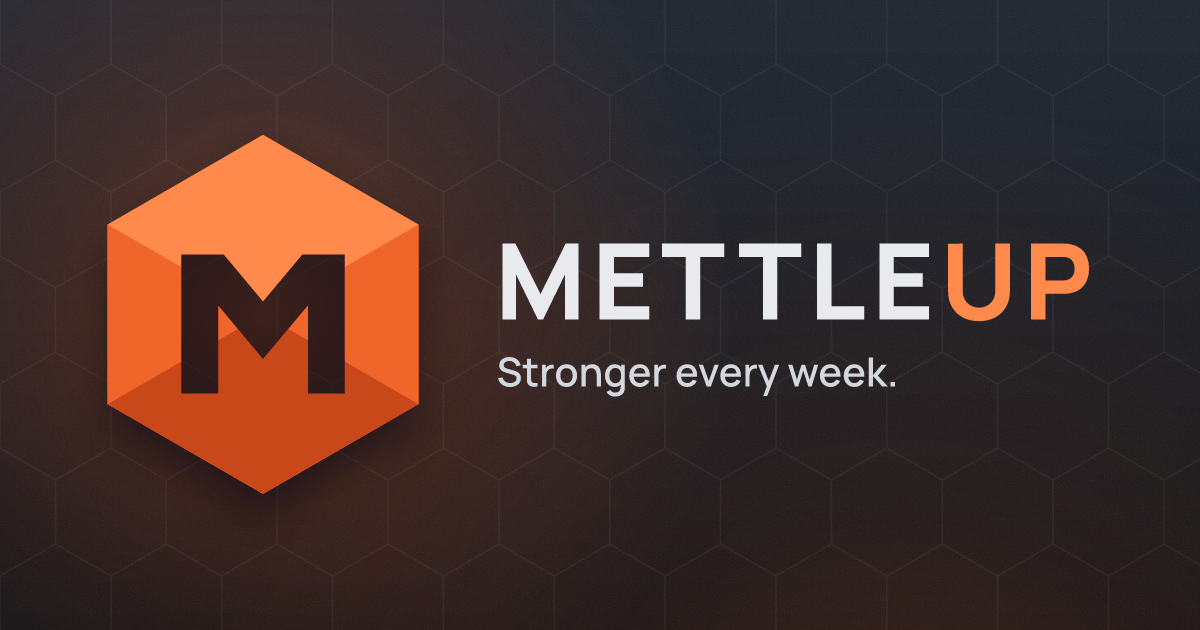
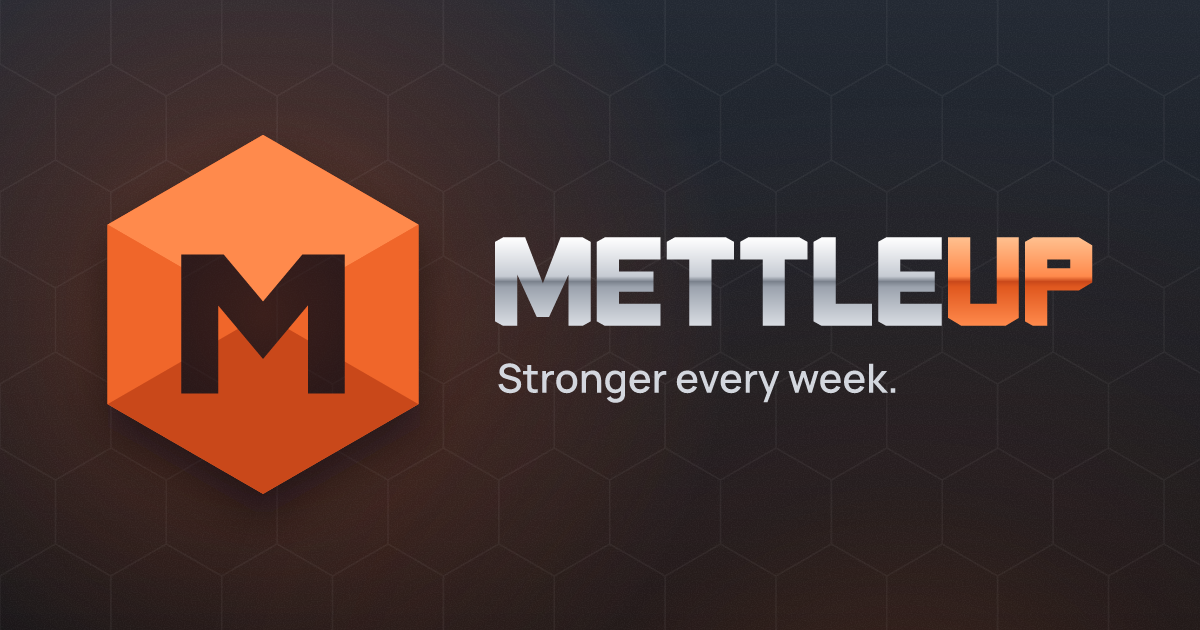
Steel-plate name in the admin app and HQ (R-425)
- Admin: sign-in and Welcome show the steel lockup (SteelLockup.tsx, shapes generated by
  web_steel_lockup.py into src/brand/steelLockup.ts); the menu says "Powered by" + the flat
  steel name. Name colours follow the light/dark theme.
- HQ: header and side menu draw the steel lockup + a small HQ tag instead of a fake M.
- Link picture and wordmark-*.svg copied from branding/mettleup/web.
- ADMIN_NEWS line for the new look.

Changed region(s): [[0.4008, 0.3619, 0.925, 0.5429], [0.4008, 0.573, 0.74, 0.6333]]

diff --git a/apps/hq/public/index.html b/apps/hq/public/index.html
@@ -38,7 +38,7 @@
 
   <!-- Phone: a slim bar on top. Computer: hidden (the side menu carries the name). -->
   <header class="top">
-    <a class="brand" href="#needs"><span class="brand-mark" aria-hidden="true">M</span>MettleUp <span class="brand-hq">HQ</span></a>
+    <a class="brand" href="#needs"><!-- steel-lockup --><svg class="brand-lockup" viewBox="0 0 1750.32 408" role="img" aria-label="MettleUp"><title>MettleUp</title><g transform="translate(-52 -52)"><path d="M256 256 L79.33 154 L256 52ZM256 241.29 L256 241.29 L211.39 188 L163 188 L163 202.31 L256 256Z" fill="#FF8A4C"/><path d="M256 256 L256 52 L432.67 154ZM349 202.31 L349 188 L300.61 188 L256 241.29 L256 241.29 L256 256Z" fill="#FF8A4C"/><path d="M256 256 L432.67 154 L432.67 358ZM284.62 272.53 L307 245.8 L307 285.44 L349 309.69 L349 202.31 L256 256Z" fill="#F0662A"/><path d="M256 256 L79.33 358 L79.33 154ZM205 285.44 L205 245.8 L227.38 272.53 L256 256 L163 202.31 L163 309.69Z" fill="#F0662A"/><path d="M256 256 L432.67 358 L256 460ZM256 306.71 L256 306.71 L284.62 272.53 L307 285.44 L307 346 L349 346 L349 309.69 L256 256Z" fill="#C9481A"/><path d="M256 256 L256 460 L79.33 358ZM205 346 L205 285.44 L227.38 272.53 L256 306.71 L256 306.71 L256 256 L163 309.69 L163 346Z" fill="#C9481A"/></g><g transform="translate(538.56 114.24) scale(1.7952)"><path class="lk-mettle" d="M0 95L0 5L9 0L34 0L54 52L74 0L99 0L108 5L108 95L99 100L83 100L83 42L61 90L47 90L25 42L25 100L9 100ZM124 0L187 0L187 25L140 25L140 38.5L179 38.5L179 61.5L140 61.5L140 75L187 75L187 100L124 100L115 95L115 5ZM203 0L261 0L270 5L270 25L244.5 25L244.5 100L219.5 100L219.5 25L194 25L194 5ZM286 0L344 0L353 5L353 25L327.5 25L327.5 100L302.5 100L302.5 25L277 25L277 5ZM369 0L385 0L385 75L426 75L426 100L369 100L360 95L360 5ZM442 0L505 0L505 25L458 25L458 38.5L497 38.5L497 61.5L458 61.5L458 75L505 75L505 100L442 100L433 95L433 5Z"/><path class="lk-up" d="M512 0L537 0L537 75L567 75L567 0L592 0L592 91L577 100L527 100L512 91ZM599 95L599 5L608 0L660 0L675 9L675 51L660 60L624 60L624 100L608 100ZM624 35L650 35L650 25L624 25Z"/></g></svg><!-- /steel-lockup --><span class="brand-hq">HQ</span></a>
     <button id="install" class="button install" type="button" hidden>Install app</button>
     <p id="install-hint" class="install-hint" role="status" hidden></p>
   </header>
@@ -47,7 +47,7 @@
 
   <!-- Computer: the side menu. Phone: the "More" sheet that slides up from the bottom. -->
   <aside id="menu" class="side" aria-label="HQ pages">
-    <a class="brand side-brand" href="#needs"><span class="brand-mark" aria-hidden="true">M</span>MettleUp <span class="brand-hq">HQ</span></a>
+    <a class="brand side-brand" href="#needs"><!-- steel-lockup --><svg class="brand-lockup" viewBox="0 0 1750.32 408" role="img" aria-label="MettleUp"><title>MettleUp</title><g transform="translate(-52 -52)"><path d="M256 256 L79.33 154 L256 52ZM256 241.29 L256 241.29 L211.39 188 L163 188 L163 202.31 L256 256Z" fill="#FF8A4C"/><path d="M256 256 L256 52 L432.67 154ZM349 202.31 L349 188 L300.61 188 L256 241.29 L256 241.29 L256 256Z" fill="#FF8A4C"/><path d="M256 256 L432.67 154 L432.67 358ZM284.62 272.53 L307 245.8 L307 285.44 L349 309.69 L349 202.31 L256 256Z" fill="#F0662A"/><path d="M256 256 L79.33 358 L79.33 154ZM205 285.44 L205 245.8 L227.38 272.53 L256 256 L163 202.31 L163 309.69Z" fill="#F0662A"/><path d="M256 256 L432.67 358 L256 460ZM256 306.71 L256 306.71 L284.62 272.53 L307 285.44 L307 346 L349 346 L349 309.69 L256 256Z" fill="#C9481A"/><path d="M256 256 L256 460 L79.33 358ZM205 346 L205 285.44 L227.38 272.53 L256 306.71 L256 306.71 L256 256 L163 309.69 L163 346Z" fill="#C9481A"/></g><g transform="translate(538.56 114.24) scale(1.7952)"><path class="lk-mettle" d="M0 95L0 5L9 0L34 0L54 52L74 0L99 0L108 5L108 95L99 100L83 100L83 42L61 90L47 90L25 42L25 100L9 100ZM124 0L187 0L187 25L140 25L140 38.5L179 38.5L179 61.5L140 61.5L140 75L187 75L187 100L124 100L115 95L115 5ZM203 0L261 0L270 5L270 25L244.5 25L244.5 100L219.5 100L219.5 25L194 25L194 5ZM286 0L344 0L353 5L353 25L327.5 25L327.5 100L302.5 100L302.5 25L277 25L277 5ZM369 0L385 0L385 75L426 75L426 100L369 100L360 95L360 5ZM442 0L505 0L505 25L458 25L458 38.5L497 38.5L497 61.5L458 61.5L458 75L505 75L505 100L442 100L433 95L433 5Z"/><path class="lk-up" d="M512 0L537 0L537 75L567 75L567 0L592 0L592 91L577 100L527 100L512 91ZM599 95L599 5L608 0L660 0L675 9L675 51L660 60L624 60L624 100L608 100ZM624 35L650 35L650 25L624 25Z"/></g></svg><!-- /steel-lockup --><span class="brand-hq">HQ</span></a>
     <nav class="side-nav" aria-label="HQ pages">
       <p class="nav-group in-tabs">Today</p>
       <a class="in-tabs" href="#needs"><svg class="ic" aria-hidden="true"><use href="#i-needs"/></svg><span>Needs you</span><span class="nav-badge" data-needs-badge hidden></span></a>

diff --git a/apps/dashboard/src/components/SteelLockup.tsx b/apps/dashboard/src/components/SteelLockup.tsx
@@ -1,0 +1,72 @@
+/**
+ * The MettleUp logo for the admin app (R-259 "steel plate", owner pick 31 Oct 2026): the Forged hex
+ * mark, then METTLEUP in the steel-plate letters, laid out like the phone app's MettleUpLogo (name cap
+ * height 0.44 x the mark, 0.32 x the mark apart). The shapes come from brand/steelLockup.ts, which
+ * branding/mettleup/_src/web_steel_lockup.py writes; never draw "MettleUp" in a font in a logo spot.
+ *
+ * Small sizes are flat: "METTLE" and "UP" use --mu-mettle / --mu-up (index.css), so the name follows
+ * the Dark | Light switch (Iron + Forge on dark, Steel + Ember on light). The mark keeps its own faces.
+ *
+ * `height` is the mark's height in px (the whole lockup's height). `mark={false}` draws the name alone,
+ * at cap height `height` (for the quiet "Powered by" line).
+ */
+import type { CSSProperties } from 'react';
+import { LOCKUP_CAP, LOCKUP_GAP, MARK_BOX, MARK_FACES, NAME_BOX, NAME_METTLE_D, NAME_UP_D } from '../brand/steelLockup';
+
+function n(v: number): string {
+  return String(Math.round(v * 100) / 100);
+}
+
+export function SteelLockup({
+  height,
+  mark = true,
+  style,
+}: {
+  height: number;
+  mark?: boolean;
+  style?: CSSProperties;
+}) {
+  const name = (
+    <>
+      <path d={NAME_METTLE_D} style={{ fill: 'var(--mu-mettle)' }} />
+      <path d={NAME_UP_D} style={{ fill: 'var(--mu-up)' }} />
+    </>
+  );
+  if (!mark) {
+    const w = (NAME_BOX.w * height) / NAME_BOX.h;
+    return (
+      <svg
+        role="img"
+        aria-label="MettleUp"
+        viewBox={`0 0 ${NAME_BOX.w} ${NAME_BOX.h}`}
+        width={n(w)}
+        height={height}
+        style={{ display: 'block', flex: 'none', ...style }}
+      >
+        {name}
+      </svg>
+    );
+  }
+  const s = MARK_BOX.size;
+  const cap = s * LOCKUP_CAP;
+  const k = cap / NAME_BOX.h;
+  const wordX = s + s * LOCKUP_GAP;
+  const totalW = wordX + NAME_BOX.w * k;
+  return (
+    <svg
+      role="img"
+      aria-label="MettleUp"
+      viewBox={`0 0 ${n(totalW)} ${s}`}
+      width={n((height * totalW) / s)}
+      height={height}
+      style={{ display: 'block', flex: 'none', ...style }}
+    >
+      <g transform={`translate(${-MARK_BOX.x} ${-MARK_BOX.y})`}>
+        {MARK_FACES.map((f, i) => (
+          <path key={i} d={f.d} fill={f.fill} />
+        ))}
+      </g>
+      <g transform={`translate(${n(wordX)} ${n((s - cap) / 2)}) scale(${k})`}>{name}</g>
+    </svg>
+  );
+}

diff --git a/apps/dashboard/src/brand/steelLockup.ts b/apps/dashboard/src/brand/steelLockup.ts
@@ -1,0 +1,16 @@
+/**
+ * The MettleUp lockup (R-259 "steel plate"): the Forged hex mark and the METTLEUP letters.
+ * GENERATED by branding/mettleup/_src/web_steel_lockup.py from steel_wordmark.py and the app's
+ * mettleUpMark.ts. Never edit by hand. Drawn by components/SteelLockup.tsx.
+ */
+/** The mark's six faces on the 512 grid (the M is cut out of them, so the page shows through). */
+export const MARK_FACES: ReadonlyArray<{ d: string; fill: string }> = [{"d": "M256 256 L79.33 154 L256 52ZM256 241.29 L256 241.29 L211.39 188 L163 188 L163 202.31 L256 256Z", "fill": "#FF8A4C"}, {"d": "M256 256 L256 52 L432.67 154ZM349 202.31 L349 188 L300.61 188 L256 241.29 L256 241.29 L256 256Z", "fill": "#FF8A4C"}, {"d": "M256 256 L432.67 154 L432.67 358ZM284.62 272.53 L307 245.8 L307 285.44 L349 309.69 L349 202.31 L256 256Z", "fill": "#F0662A"}, {"d": "M256 256 L79.33 358 L79.33 154ZM205 285.44 L205 245.8 L227.38 272.53 L256 256 L163 202.31 L163 309.69Z", "fill": "#F0662A"}, {"d": "M256 256 L432.67 358 L256 460ZM256 306.71 L256 306.71 L284.62 272.53 L307 285.44 L307 346 L349 346 L349 309.69 L256 256Z", "fill": "#C9481A"}, {"d": "M256 256 L256 460 L79.33 358ZM205 346 L205 285.44 L227.38 272.53 L256 306.71 L256 306.71 L256 256 L163 309.69 L163 346Z", "fill": "#C9481A"}];
+/** The mark's box on the 512 grid (the hex's height). */
+export const MARK_BOX = { x: 52, y: 52, size: 408 } as const;
+/** "METTLE" and "UP", cap height 100, origin at the M's top-left. */
+export const NAME_METTLE_D = 'M0 95L0 5L9 0L34 0L54 52L74 0L99 0L108 5L108 95L99 100L83 100L83 42L61 90L47 90L25 42L25 100L9 100ZM124 0L187 0L187 25L140 25L140 38.5L179 38.5L179 61.5L140 61.5L140 75L187 75L187 100L124 100L115 95L115 5ZM203 0L261 0L270 5L270 25L244.5 25L244.5 100L219.5 100L219.5 25L194 25L194 5ZM286 0L344 0L353 5L353 25L327.5 25L327.5 100L302.5 100L302.5 25L277 25L277 5ZM369 0L385 0L385 75L426 75L426 100L369 100L360 95L360 5ZM442 0L505 0L505 25L458 25L458 38.5L497 38.5L497 61.5L458 61.5L458 75L505 75L505 100L442 100L433 95L433 5Z';
+export const NAME_UP_D = 'M512 0L537 0L537 75L567 75L567 0L592 0L592 91L577 100L527 100L512 91ZM599 95L599 5L608 0L660 0L675 9L675 51L660 60L624 60L624 100L608 100ZM624 35L650 35L650 25L624 25Z';
+export const NAME_BOX = { w: 675, h: 100 } as const;
+/** The lockup: the name's cap height and the gap, as parts of the mark's height (MettleUpLogo). */
+export const LOCKUP_CAP = 0.44;
+export const LOCKUP_GAP = 0.32;

diff --git a/apps/dashboard/src/crm/ui/Welcome.tsx b/apps/dashboard/src/crm/ui/Welcome.tsx
@@ -25,6 +25,7 @@ import { useShop } from '../shop/ShopProvider';
 import { useCrm } from '../store';
 import { Button, Card, ErrorBanner, color, font, radius, space } from './kit';
 import { SupportLine } from './SupportLine';
+import { SteelLockup } from '../../components/SteelLockup';
 
 export function Welcome() {
   // R-97: the direct sign-up link (https://app.mettleup.fit/start) puts "Start my gym" first.
@@ -114,18 +115,10 @@ export function Welcome() {
           <ThemeToggle />
         </div>
         <div style={{ textAlign: 'center', marginBottom: space.xxl }}>
-          <div
-            style={{
-              fontFamily: font.display,
-              fontSize: 30,
-              fontWeight: 800,
-              color: color.ink,
-              letterSpacing: -0.5,
-            }}
-          >
-            {/* R-105: a plain text wordmark until the logo is picked (#61). */}
-            Mettle<span style={{ color: color.accent }}>Up</span>
-          </div>
+          {/* R-259: the steel-plate lockup (mark + name), 48 px: the name's cap height is 21 px. */}
+          <h1 style={{ margin: 0, display: 'flex', justifyContent: 'center' }}>
+            <SteelLockup height={48} />
+          </h1>
           <div style={{ marginTop: 2, fontFamily: font.body, fontSize: 14, fontWeight: 600, color: color.inkSecondary, letterSpacing: 0.4 }}>
             {t('for Gyms')}
           </div>

diff --git a/apps/hq/public/style.css b/apps/hq/public/style.css
@@ -62,8 +62,13 @@ p { margin: 6px 0; }
 
 /* ---------------------------------------------------------------- the frame */
 .brand { display: inline-flex; align-items: center; gap: 10px; font-weight: 800; font-size: 17px; letter-spacing: -0.01em; text-decoration: none; color: var(--ink); }
-.brand-mark { display: grid; place-items: center; width: 30px; height: 30px; border-radius: 9px; background: linear-gradient(135deg, #ff9a4d, #f0662a 55%, #c9431a); color: #fff; font-size: 16px; font-weight: 900; box-shadow: 0 4px 14px rgb(240 102 42 / 0.35); }
-.brand-hq { color: var(--accent); }
+/* R-259 "steel plate" lockup (mark + METTLEUP), inline in index.html from branding/mettleup/_src/web_steel_lockup.py.
+   Flat small-size colours: METTLE Iron and UP Forge on dark; Steel and Ember on light (BRAND.md). */
+.brand-lockup { display: block; height: 30px; width: auto; flex: none; }
+.lk-mettle { fill: #E8EAEE; }
+.lk-up { fill: #F0662A; }
+@media (prefers-color-scheme: light) { .lk-mettle { fill: #1B1F26; } .lk-up { fill: #E0581F; } }
+.brand-hq { color: var(--accent); font-size: 13px; font-weight: 800; letter-spacing: 0.08em; padding: 2px 7px; border: 1.5px solid currentColor; border-radius: 6px; line-height: 1.2; }
 
 .top {
   position: sticky; top: 0; z-index: 20; display: flex; flex-wrap: wrap; align-items: center; justify-content: space-between; gap: 8px;

diff --git a/apps/dashboard/src/components/Login.tsx b/apps/dashboard/src/components/Login.tsx
@@ -2,7 +2,8 @@ import { useState } from 'react';
 import type { FormEvent } from 'react';
 
 import { supabase } from '../lib/supabase';
-import { color, font, gradients, space } from '../theme';
+import { color, font, space } from '../theme';
+import { SteelLockup } from './SteelLockup';
 import { Button, Card, ErrorText, TextField } from './ui';
 
 /**
@@ -54,19 +55,10 @@ export function Login() {
     <div style={{ minHeight: '100vh', display: 'grid', placeItems: 'center', padding: space.xl }}>
       <div style={{ width: '100%', maxWidth: 380 }}>
         <div style={{ textAlign: 'center', marginBottom: space.xl }}>
-          <div
-            style={{
-              fontFamily: font.display,
-              fontSize: 30,
-              fontWeight: 700,
-              background: gradients.ember,
-              WebkitBackgroundClip: 'text',
-              backgroundClip: 'text',
-              color: 'transparent',
-            }}
-          >
-            MettleUp
-          </div>
+          {/* R-259: the steel-plate lockup (mark + name), 48 px: the name's cap height is 21 px. */}
+          <h1 style={{ margin: 0, display: 'flex', justifyContent: 'center' }}>
+            <SteelLockup height={48} />
+          </h1>
           <div style={{ color: color.inkMuted, fontSize: 13, marginTop: 4 }}>Owner dashboard</div>
         </div>
 

diff --git a/apps/dashboard/src/crm/ui/AppShell.tsx b/apps/dashboard/src/crm/ui/AppShell.tsx
@@ -19,6 +19,7 @@ import { useNewFeatures } from './NewDots';
 import { barLit, linkLit, reachable } from '../logic/newDots';
 import { Link, useRoute } from './router';
 import { t } from '../lang/lang';
+import { SteelLockup } from '../../components/SteelLockup';
 
 export interface NavItem {
   path: string;
@@ -127,8 +128,12 @@ function Sidebar({ gymName, nav, activePath }: { gymName: string; nav: NavItem[]
       <div style={{ padding: `0 ${space.md}px ${space.lg}px` }}>
         {/* #41: an owner with 2 or more branches picks the branch here; everyone else sees the name. */}
         <BranchSwitch gymName={gymName} />
-        <div style={{ fontFamily: font.body, fontSize: 11, color: color.inkMuted, letterSpacing: 0.6 }}>
-          POWERED BY METTLEUP
+        {/* R-259: "Powered by" + the steel-plate name, flat and small, so it stays quiet under the gym's name. */}
+        <div
+          style={{ display: 'flex', alignItems: 'center', gap: 6, fontFamily: font.body, fontSize: 11, color: color.inkMuted, letterSpacing: 0.4 }}
+        >
+          {t('Powered by')}
+          <SteelLockup height={9} mark={false} />
         </div>
         <div style={{ marginTop: space.md }}>
           <ThemeToggle compact />

diff --git a/apps/dashboard/src/crm/lang/hinglish.ts b/apps/dashboard/src/crm/lang/hinglish.ts
@@ -68,6 +68,8 @@ export const HINGLISH: Readonly<Record<string, string>> = {
 
   // ── Start page, sign in, Create my gym ─────────────────────────────────
   'for Gyms': 'Gyms ke liye',
+  // R-259: the side menu's quiet line before the steel MettleUp name.
+  'Powered by': 'Powered by',
   'Run your gym: members, renewals, dues and attendance. Plus a shop your members order from in the MettleUp app.':
     'Apna gym chalao: members, renewal, baaki fees aur hazri. Saath mein ek shop, jahan se members MettleUp app mein order karte hain.',
   'Sign in or set up': 'Sign in karo ya naya gym banao',

diff --git a/apps/dashboard/src/crm/logic/whatsNew.ts b/apps/dashboard/src/crm/logic/whatsNew.ts
@@ -42,6 +42,10 @@ export const ADMIN_NEWS: readonly AdminNewsEntry[] = [
     id: '2026-11-09',
     lines: [
       {
+        // R-425 (9 Nov 2026): the steel-plate name on the sign-in page, the Welcome page and the menu.
+        text: 'The MettleUp name now has its new look on the sign-in page and at the bottom of the menu, the same as in the member app.',
+      },
+      {
         text: 'New "Questions" page: members can now ask a trainer a question in their MettleUp app. You or the trainer they picked reply here, and the member gets a notification on their phone.',
         go: { label: 'Open Questions', path: '/questions' },
         feature: true,

diff --git a/apps/dashboard/src/index.css b/apps/dashboard/src/index.css
@@ -2,6 +2,17 @@
   color-scheme: dark;
 }
 
+/* R-259 "steel plate" name (components/SteelLockup.tsx): the flat small-size colours from BRAND.md.
+   Dark: METTLE Iron, UP Forge. Light: METTLE Steel, UP Ember. */
+:root {
+  --mu-mettle: #E8EAEE;
+  --mu-up: #F0662A;
+}
+:root[data-theme='light'] {
+  --mu-mettle: #1B1F26;
+  --mu-up: #E0581F;
+}
+
 /* body and scrollbars follow the dark | light switch (src/theme.ts applyTheme). The fallbacks are
    the dark colours, for the instant before the script runs. */
 

diff --git a/apps/dashboard/README.md b/apps/dashboard/README.md
@@ -94,8 +94,10 @@ put in place by `python branding/mettleup/install.py --apply --only dashboard`. 
 | `brand/apple-touch-icon-180.png` | 180 x 180 | iPhone home screen |
 | `brand/og-1200x630.png` | 1200 x 630 | link preview of mettleup.fit (WhatsApp, Google) |
 | `brand/mark.svg` | 26 x 26 shown | landing page header, beside the words "MettleUp for Gyms" |
-| `brand/wordmark-light.svg`, `brand/wordmark-dark.svg` | vector | spare lockups (not shown yet) |
-The admin sign-in page shows the name as text. The old `public/icons/admin-*.png` stay on disk for
+| `brand/lockup-steel.svg` | 26 px high | website headers: mark + the steel-plate name (R-259) |
+| `brand/wordmark-light.svg`, `brand/wordmark-dark.svg` | vector | spare steel-plate lockups (light: Steel + Ember; dark: Iron + Forge) |
+The admin app draws the steel-plate lockup itself (`src/components/SteelLockup.tsx`, shapes in the generated
+`src/brand/steelLockup.ts`; run `python branding/mettleup/_src/web_steel_lockup.py` after a logo change). The old `public/icons/admin-*.png` stay on disk for
 pages cached before the change. HQ (`apps/hq/public/`) has its own `favicon.svg` copy.
 
 **Roll back** (a deploy broke the panel): from `deploy/panel`,
